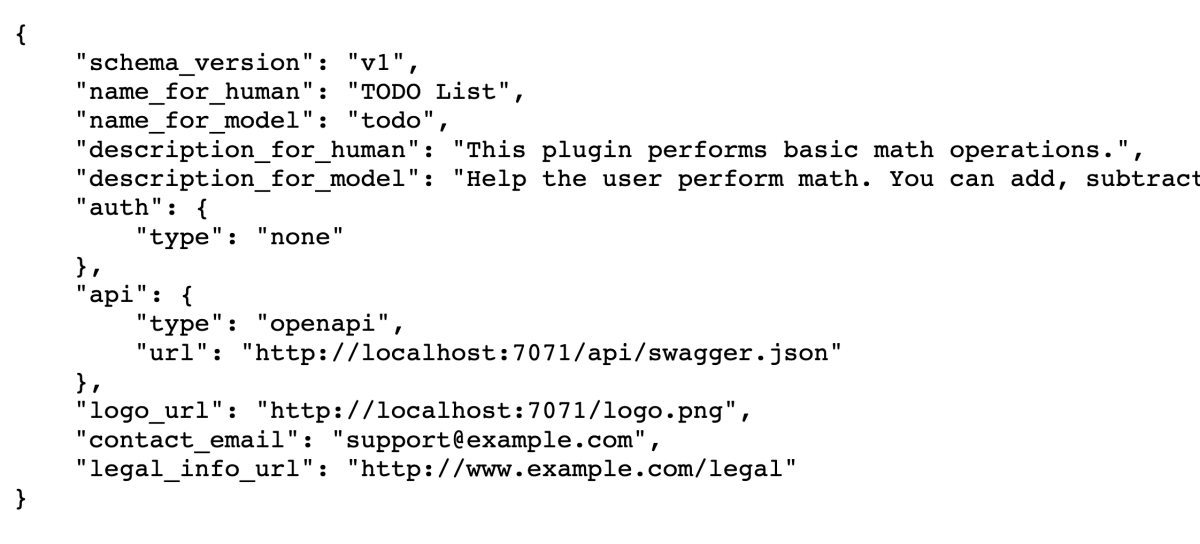
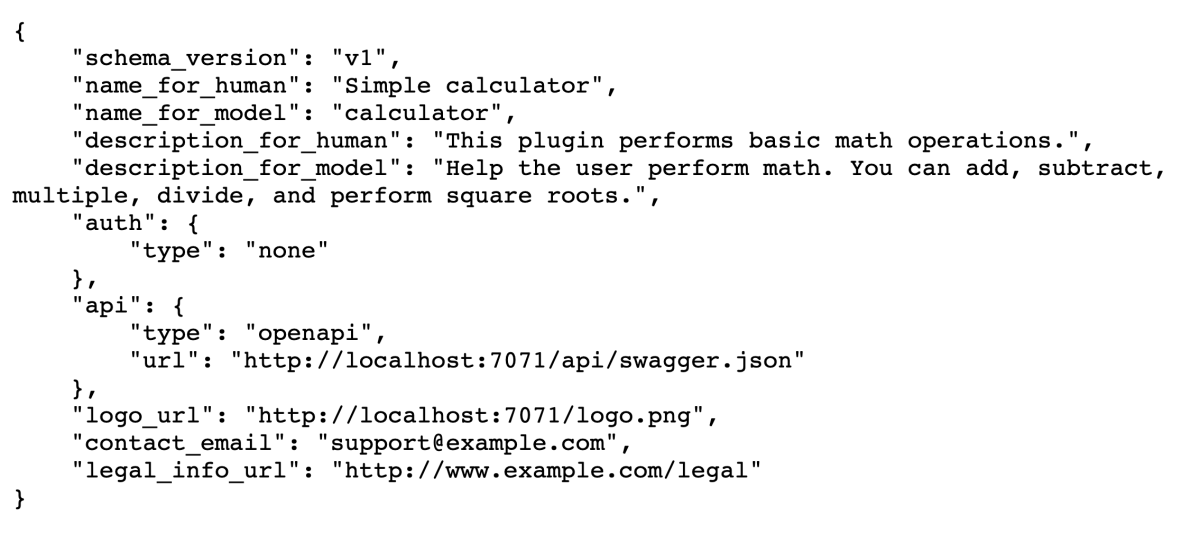
fix name of plugin

diff --git a/samples/dotnet/05-Create-ChatGPT-Plugin/MathPlugin/AIPluginJson.cs b/samples/dotnet/05-Create-ChatGPT-Plugin/MathPlugin/AIPluginJson.cs
@@ -20,8 +20,8 @@ namespace MathPlugin
 
             var json = $@"{{
     ""schema_version"": ""v1"",
-    ""name_for_human"": ""TODO List"",
-    ""name_for_model"": ""todo"",
+    ""name_for_human"": ""Simple calculator"",
+    ""name_for_model"": ""calculator"",
     ""description_for_human"": ""This plugin performs basic math operations."",
     ""description_for_model"": ""Help the user perform math. You can add, subtract, multiple, divide, and perform square roots."",
     ""auth"": {{

diff --git a/semantic-kernel/ai-orchestration/chatgpt-plugins.md b/semantic-kernel/ai-orchestration/chatgpt-plugins.md
@@ -273,8 +273,8 @@ To create an Azure Function that serves up this manifest, follow these steps:
 
         var json = $@"{{
         ""schema_version"": ""v1"",
-        ""name_for_human"": ""TODO List"",
-        ""name_for_model"": ""todo"",
+        ""name_for_human"": ""Simple calculator"",
+        ""name_for_model"": ""calculator"",
         ""description_for_human"": ""This plugin performs basic math operations."",
         ""description_for_model"": ""Help the user perform math. You can add, subtract, multiple, divide, and perform square roots."",
         ""auth"": {{
